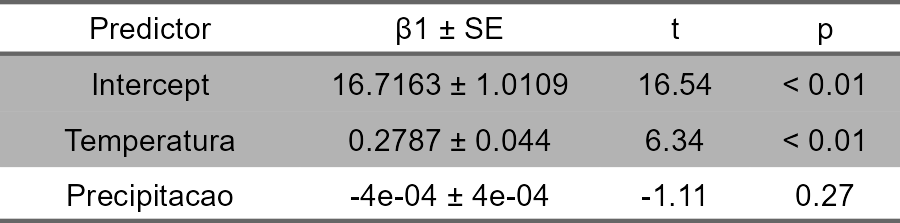
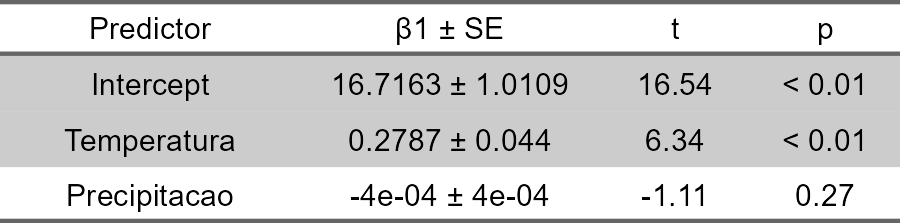
Add files via upload

diff --git a/README.html b/README.html
@@ -1948,6 +1948,21 @@ summary_table_trat</code></pre>
 </div>
 <div id="turning-into-a-flextable" class="section level1">
 <h1>Turning into a flextable</h1>
+<p>Finally, our final step is to make a table, using
+<code>flextable</code> package, when we use:</p>
+<ul>
+<li><p><code>flextable()</code>: turn dataframe into a
+flextable;</p></li>
+<li><p><code>align()</code>: align columns to center
+(<code>align = &quot;center&quot;</code>), for every table parts
+(<code>part = &quot;all&quot;</code>);</p></li>
+<li><p><code>width()</code>: set columns width to 1.5
+(<code>width = 1.5</code>), and 0.75 to only 3rd and 4th columns
+(<code>width = 0.75, j = 3:4</code>);</p></li>
+<li><p><code>bg()</code>: colour backgroung to white in every table
+parts (<code>bg = &quot;white&quot;, part = &quot;all&quot;</code>) and gray to rows which p
+&lt; 0.05 (<code>i = ~p &lt; 0.05, bg = &quot;gray80&quot;</code>).</p></li>
+</ul>
 <pre class="r"><code>summary_flex &lt;- summary_table_trat |&gt; 
   flextable::flextable() |&gt; 
   flextable::align(align = &quot;center&quot;, part = &quot;all&quot;) |&gt; 
@@ -1955,12 +1970,15 @@ summary_table_trat</code></pre>
   flextable::width(width = 0.75, j = 3:4) |&gt; 
   flextable::bg(bg = &quot;white&quot;, part = &quot;all&quot;) |&gt; 
   flextable::bg(i = ~p &lt; 0.05,
-                bg = &quot;gray70&quot;)
+                bg = &quot;gray80&quot;)
 
 summary_flex</code></pre>
-<div class="tabwid"><style>.cl-99cb8c0e{}.cl-99bbfa8c{font-family:'Arial';font-size:11pt;font-weight:normal;font-style:normal;text-decoration:none;color:rgba(0, 0, 0, 1.00);background-color:transparent;}.cl-99c182fe{margin:0;text-align:center;border-bottom: 0 solid rgba(0, 0, 0, 1.00);border-top: 0 solid rgba(0, 0, 0, 1.00);border-left: 0 solid rgba(0, 0, 0, 1.00);border-right: 0 solid rgba(0, 0, 0, 1.00);padding-bottom:5pt;padding-top:5pt;padding-left:5pt;padding-right:5pt;line-height: 1;background-color:transparent;}.cl-99c1b24c{width:1.5in;background-color:rgba(255, 255, 255, 1.00);vertical-align: middle;border-bottom: 1.5pt solid rgba(102, 102, 102, 1.00);border-top: 1.5pt solid rgba(102, 102, 102, 1.00);border-left: 0 solid rgba(0, 0, 0, 1.00);border-right: 0 solid rgba(0, 0, 0, 1.00);margin-bottom:0;margin-top:0;margin-left:0;margin-right:0;}.cl-99c1b256{width:0.75in;background-color:rgba(255, 255, 255, 1.00);vertical-align: middle;border-bottom: 1.5pt solid rgba(102, 102, 102, 1.00);border-top: 1.5pt solid rgba(102, 102, 102, 1.00);border-left: 0 solid rgba(0, 0, 0, 1.00);border-right: 0 solid rgba(0, 0, 0, 1.00);margin-bottom:0;margin-top:0;margin-left:0;margin-right:0;}.cl-99c1b257{width:1.5in;background-color:rgba(179, 179, 179, 1.00);vertical-align: middle;border-bottom: 0 solid rgba(0, 0, 0, 1.00);border-top: 0 solid rgba(0, 0, 0, 1.00);border-left: 0 solid rgba(0, 0, 0, 1.00);border-right: 0 solid rgba(0, 0, 0, 1.00);margin-bottom:0;margin-top:0;margin-left:0;margin-right:0;}.cl-99c1b258{width:0.75in;background-color:rgba(179, 179, 179, 1.00);vertical-align: middle;border-bottom: 0 solid rgba(0, 0, 0, 1.00);border-top: 0 solid rgba(0, 0, 0, 1.00);border-left: 0 solid rgba(0, 0, 0, 1.00);border-right: 0 solid rgba(0, 0, 0, 1.00);margin-bottom:0;margin-top:0;margin-left:0;margin-right:0;}.cl-99c1b260{width:1.5in;background-color:rgba(255, 255, 255, 1.00);vertical-align: middle;border-bottom: 1.5pt solid rgba(102, 102, 102, 1.00);border-top: 0 solid rgba(0, 0, 0, 1.00);border-left: 0 solid rgba(0, 0, 0, 1.00);border-right: 0 solid rgba(0, 0, 0, 1.00);margin-bottom:0;margin-top:0;margin-left:0;margin-right:0;}.cl-99c1b261{width:0.75in;background-color:rgba(255, 255, 255, 1.00);vertical-align: middle;border-bottom: 1.5pt solid rgba(102, 102, 102, 1.00);border-top: 0 solid rgba(0, 0, 0, 1.00);border-left: 0 solid rgba(0, 0, 0, 1.00);border-right: 0 solid rgba(0, 0, 0, 1.00);margin-bottom:0;margin-top:0;margin-left:0;margin-right:0;}</style><table data-quarto-disable-processing="true" class="cl-99cb8c0e"><thead><tr style="overflow-wrap:break-word;"><th class="cl-99c1b24c"><p class="cl-99c182fe"><span class="cl-99bbfa8c">Predictor</span></p></th><th class="cl-99c1b24c"><p class="cl-99c182fe"><span class="cl-99bbfa8c">β1 ± SE</span></p></th><th class="cl-99c1b256"><p class="cl-99c182fe"><span class="cl-99bbfa8c">t</span></p></th><th class="cl-99c1b256"><p class="cl-99c182fe"><span class="cl-99bbfa8c">p</span></p></th></tr></thead><tbody><tr style="overflow-wrap:break-word;"><td class="cl-99c1b257"><p class="cl-99c182fe"><span class="cl-99bbfa8c">Intercept</span></p></td><td class="cl-99c1b257"><p class="cl-99c182fe"><span class="cl-99bbfa8c">16.7163 ± 1.0109</span></p></td><td class="cl-99c1b258"><p class="cl-99c182fe"><span class="cl-99bbfa8c">16.54</span></p></td><td class="cl-99c1b258"><p class="cl-99c182fe"><span class="cl-99bbfa8c">&lt; 0.01</span></p></td></tr><tr style="overflow-wrap:break-word;"><td class="cl-99c1b257"><p class="cl-99c182fe"><span class="cl-99bbfa8c">Temperatura</span></p></td><td class="cl-99c1b257"><p class="cl-99c182fe"><span class="cl-99bbfa8c">0.2787 ± 0.044</span></p></td><td class="cl-99c1b258"><p class="cl-99c182fe"><span class="cl-99bbfa8c">6.34</span></p></td><td class="cl-99c1b258"><p class="cl-99c182fe"><span class="cl-99bbfa8c">&lt; 0.01</span></p></td></tr><tr style="overflow-wrap:break-word;"><td class="cl-99c1b260"><p class="cl-99c182fe"><span class="cl-99bbfa8c">Precipitacao</span></p></td><td class="cl-99c1b260"><p class="cl-99c182fe"><span class="cl-99bbfa8c">-4e-04 ± 4e-04</span></p></td><td class="cl-99c1b261"><p class="cl-99c182fe"><span class="cl-99bbfa8c">-1.11</span></p></td><td class="cl-99c1b261"><p class="cl-99c182fe"><span class="cl-99bbfa8c">0.27</span></p></td></tr></tbody></table></div>
+<div class="tabwid"><style>.cl-3ab2ec42{}.cl-3aa238ca{font-family:'Arial';font-size:11pt;font-weight:normal;font-style:normal;text-decoration:none;color:rgba(0, 0, 0, 1.00);background-color:transparent;}.cl-3aa8b36c{margin:0;text-align:center;border-bottom: 0 solid rgba(0, 0, 0, 1.00);border-top: 0 solid rgba(0, 0, 0, 1.00);border-left: 0 solid rgba(0, 0, 0, 1.00);border-right: 0 solid rgba(0, 0, 0, 1.00);padding-bottom:5pt;padding-top:5pt;padding-left:5pt;padding-right:5pt;line-height: 1;background-color:transparent;}.cl-3aa8f854{width:1.5in;background-color:rgba(255, 255, 255, 1.00);vertical-align: middle;border-bottom: 1.5pt solid rgba(102, 102, 102, 1.00);border-top: 1.5pt solid rgba(102, 102, 102, 1.00);border-left: 0 solid rgba(0, 0, 0, 1.00);border-right: 0 solid rgba(0, 0, 0, 1.00);margin-bottom:0;margin-top:0;margin-left:0;margin-right:0;}.cl-3aa8f85e{width:0.75in;background-color:rgba(255, 255, 255, 1.00);vertical-align: middle;border-bottom: 1.5pt solid rgba(102, 102, 102, 1.00);border-top: 1.5pt solid rgba(102, 102, 102, 1.00);border-left: 0 solid rgba(0, 0, 0, 1.00);border-right: 0 solid rgba(0, 0, 0, 1.00);margin-bottom:0;margin-top:0;margin-left:0;margin-right:0;}.cl-3aa8f868{width:1.5in;background-color:rgba(204, 204, 204, 1.00);vertical-align: middle;border-bottom: 0 solid rgba(0, 0, 0, 1.00);border-top: 0 solid rgba(0, 0, 0, 1.00);border-left: 0 solid rgba(0, 0, 0, 1.00);border-right: 0 solid rgba(0, 0, 0, 1.00);margin-bottom:0;margin-top:0;margin-left:0;margin-right:0;}.cl-3aa8f869{width:0.75in;background-color:rgba(204, 204, 204, 1.00);vertical-align: middle;border-bottom: 0 solid rgba(0, 0, 0, 1.00);border-top: 0 solid rgba(0, 0, 0, 1.00);border-left: 0 solid rgba(0, 0, 0, 1.00);border-right: 0 solid rgba(0, 0, 0, 1.00);margin-bottom:0;margin-top:0;margin-left:0;margin-right:0;}.cl-3aa8f872{width:1.5in;background-color:rgba(255, 255, 255, 1.00);vertical-align: middle;border-bottom: 1.5pt solid rgba(102, 102, 102, 1.00);border-top: 0 solid rgba(0, 0, 0, 1.00);border-left: 0 solid rgba(0, 0, 0, 1.00);border-right: 0 solid rgba(0, 0, 0, 1.00);margin-bottom:0;margin-top:0;margin-left:0;margin-right:0;}.cl-3aa8f87c{width:0.75in;background-color:rgba(255, 255, 255, 1.00);vertical-align: middle;border-bottom: 1.5pt solid rgba(102, 102, 102, 1.00);border-top: 0 solid rgba(0, 0, 0, 1.00);border-left: 0 solid rgba(0, 0, 0, 1.00);border-right: 0 solid rgba(0, 0, 0, 1.00);margin-bottom:0;margin-top:0;margin-left:0;margin-right:0;}</style><table data-quarto-disable-processing="true" class="cl-3ab2ec42"><thead><tr style="overflow-wrap:break-word;"><th class="cl-3aa8f854"><p class="cl-3aa8b36c"><span class="cl-3aa238ca">Predictor</span></p></th><th class="cl-3aa8f854"><p class="cl-3aa8b36c"><span class="cl-3aa238ca">β1 ± SE</span></p></th><th class="cl-3aa8f85e"><p class="cl-3aa8b36c"><span class="cl-3aa238ca">t</span></p></th><th class="cl-3aa8f85e"><p class="cl-3aa8b36c"><span class="cl-3aa238ca">p</span></p></th></tr></thead><tbody><tr style="overflow-wrap:break-word;"><td class="cl-3aa8f868"><p class="cl-3aa8b36c"><span class="cl-3aa238ca">Intercept</span></p></td><td class="cl-3aa8f868"><p class="cl-3aa8b36c"><span class="cl-3aa238ca">16.7163 ± 1.0109</span></p></td><td class="cl-3aa8f869"><p class="cl-3aa8b36c"><span class="cl-3aa238ca">16.54</span></p></td><td class="cl-3aa8f869"><p class="cl-3aa8b36c"><span class="cl-3aa238ca">&lt; 0.01</span></p></td></tr><tr style="overflow-wrap:break-word;"><td class="cl-3aa8f868"><p class="cl-3aa8b36c"><span class="cl-3aa238ca">Temperatura</span></p></td><td class="cl-3aa8f868"><p class="cl-3aa8b36c"><span class="cl-3aa238ca">0.2787 ± 0.044</span></p></td><td class="cl-3aa8f869"><p class="cl-3aa8b36c"><span class="cl-3aa238ca">6.34</span></p></td><td class="cl-3aa8f869"><p class="cl-3aa8b36c"><span class="cl-3aa238ca">&lt; 0.01</span></p></td></tr><tr style="overflow-wrap:break-word;"><td class="cl-3aa8f872"><p class="cl-3aa8b36c"><span class="cl-3aa238ca">Precipitacao</span></p></td><td class="cl-3aa8f872"><p class="cl-3aa8b36c"><span class="cl-3aa238ca">-4e-04 ± 4e-04</span></p></td><td class="cl-3aa8f87c"><p class="cl-3aa8b36c"><span class="cl-3aa238ca">-1.11</span></p></td><td class="cl-3aa8f87c"><p class="cl-3aa8b36c"><span class="cl-3aa238ca">0.27</span></p></td></tr></tbody></table></div>
 <div id="exporting" class="section level2">
 <h2>Exporting</h2>
+<p>Now we have a full-made flextable table, we can export, as a .docx
+file, using <code>save_as_docx()</code> function, from
+<code>flextable</code> package.</p>
 <pre class="r"><code>summary_flex |&gt; 
   flextable::save_as_docx(path = &quot;linear_modelo_table.docx&quot;)</code></pre>
 </div>

diff --git a/README.md b/README.md
@@ -29,11 +29,31 @@ To build our table, we use the required packages:
 library(ecodados)
 
 library(tidyverse)
+```
 
+    ## ── Attaching core tidyverse packages ────────────────── tidyverse 2.0.0 ──
+    ## ✔ dplyr     1.1.4     ✔ readr     2.1.5
+    ## ✔ forcats   1.0.0     ✔ stringr   1.5.2
+    ## ✔ ggplot2   4.0.0     ✔ tibble    3.3.0
+    ## ✔ lubridate 1.9.4     ✔ tidyr     1.3.1
+    ## ✔ purrr     1.1.0     
+    ## ── Conflicts ──────────────────────────────────── tidyverse_conflicts() ──
+    ## ✖ dplyr::filter() masks stats::filter()
+    ## ✖ dplyr::lag()    masks stats::lag()
+    ## ℹ Use the conflicted package (<http://conflicted.r-lib.org/>) to force all conflicts to become errors
+
+``` r
 library(performance)
 
 library(flextable)
 ```
+
+    ## 
+    ## Anexando pacote: 'flextable'
+    ## 
+    ## O seguinte objeto é mascarado por 'package:purrr':
+    ## 
+    ##     compose
 
 # Data
 
@@ -189,10 +209,10 @@ data |> dplyr::glimpse()
 
     ## Rows: 109
     ## Columns: 4
-    ## $ Municipio    [3m[38;5;246m<chr>[39m[23m "Acorizal"[38;5;246m, [39m"Alpinopolis"[38;5;246m, [39m"Alto_Paraiso"[38;5;246m, [39m"America…
-    ## $ CRC          [3m[38;5;246m<dbl>[39m[23m 22.98816[38;5;246m, [39m22.91788[38;5;246m, [39m21.97629[38;5;246m, [39m23.32453[38;5;246m, [39m22.83651[38;5;246m, [39m2…
-    ## $ Temperatura  [3m[38;5;246m<dbl>[39m[23m 24.13000[38;5;246m, [39m20.09417[38;5;246m, [39m21.86167[38;5;246m, [39m20.28333[38;5;246m, [39m25.47333[38;5;246m, [39m2…
-    ## $ Precipitacao [3m[38;5;246m<dbl>[39m[23m 1228.2[38;5;246m, [39m1487.6[38;5;246m, [39m1812.4[38;5;246m, [39m1266.2[38;5;246m, [39m2154.0[38;5;246m, [39m1269.2[38;5;246m, [39m194…
+    ## $ Municipio    <chr> "Acorizal", "Alpinopolis", "Alto_Paraiso", "America…
+    ## $ CRC          <dbl> 22.98816, 22.91788, 21.97629, 23.32453, 22.83651, 2…
+    ## $ Temperatura  <dbl> 24.13000, 20.09417, 21.86167, 20.28333, 25.47333, 2…
+    ## $ Precipitacao <dbl> 1228.2, 1487.6, 1812.4, 1266.2, 2154.0, 1269.2, 194…
 
 # Modeling
 
@@ -412,6 +432,21 @@ summary_table_trat
 
 # Turning into a flextable
 
+Finally, our final step is to make a table, using `flextable` package,
+when we use:
+
+- `flextable()`: turn dataframe into a flextable;
+
+- `align()`: align columns to center (`align = "center"`), for every
+  table parts (`part = "all"`);
+
+- `width()`: set columns width to 1.5 (`width = 1.5`), and 0.75 to only
+  3rd and 4th columns (`width = 0.75, j = 3:4`);
+
+- `bg()`: colour backgroung to white in every table parts
+  (`bg = "white", part = "all"`) and gray to rows which p \< 0.05
+  (`i = ~p < 0.05, bg = "gray80"`).
+
 ``` r
 summary_flex <- summary_table_trat |> 
   flextable::flextable() |> 
@@ -420,7 +455,7 @@ summary_flex <- summary_table_trat |>
   flextable::width(width = 0.75, j = 3:4) |> 
   flextable::bg(bg = "white", part = "all") |> 
   flextable::bg(i = ~p < 0.05,
-                bg = "gray70")
+                bg = "gray80")
 
 summary_flex
 ```
@@ -428,6 +463,9 @@ summary_flex
 <img src="README_files/figure-gfm/unnamed-chunk-9-1.png" width="900" />
 
 ## Exporting
+
+Now we have a full-made flextable table, we can export, as a .docx file,
+using `save_as_docx()` function, from `flextable` package.
 
 ``` r
 summary_flex |> 
